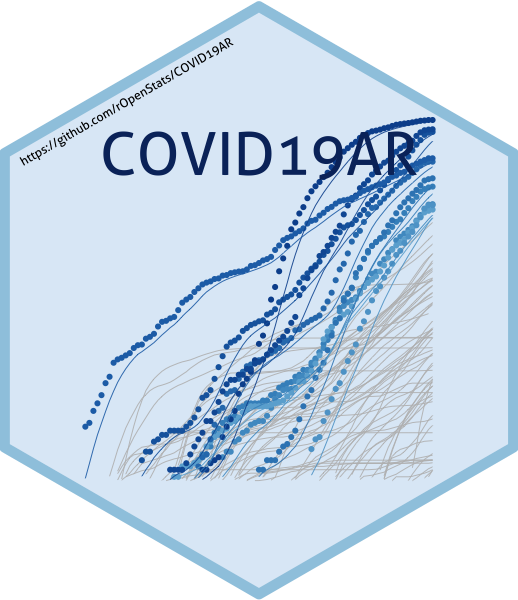
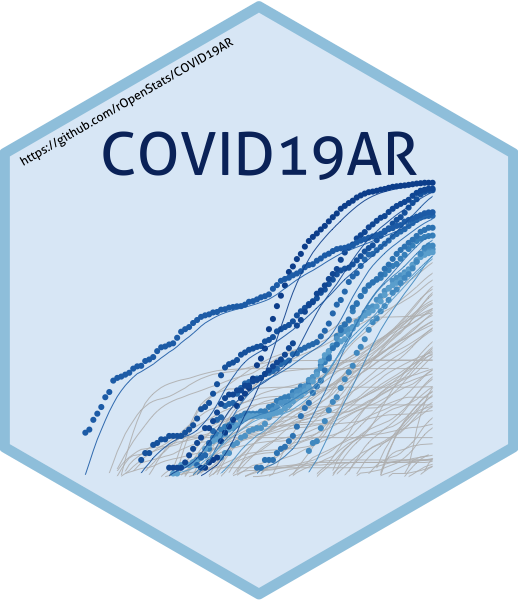
Updated up to 2020-06-16

Changed region(s): [[0.1544, 0.18, 0.8649, 0.81]]

diff --git a/README.md b/README.md
@@ -86,22 +86,22 @@ lgr::threshold("info", lgr::get_logger("COVID19ARCurator"))
 covid19.curator <- COVID19ARCurator$new(download.new.data = FALSE)
 
 dummy <- covid19.curator$loadData()
-#> INFO  [22:10:44.412] Exists dest path? {dest.path: ~/.R/COVID19AR/Covid19Casos.csv, exists.dest.path: TRUE}
+#> INFO  [00:14:07.855] Exists dest path? {dest.path: ~/.R/COVID19AR/Covid19Casos.csv, exists.dest.path: TRUE}
 dummy <- covid19.curator$curateData()
-#> INFO  [22:10:46.052] Normalize 
-#> INFO  [22:10:46.434] checkSoundness 
-#> INFO  [22:10:46.554] Mutating data
+#> INFO  [00:14:09.694] Normalize 
+#> INFO  [00:14:10.098] checkSoundness 
+#> INFO  [00:14:10.229] Mutating data
 # Dates of current processed file
 max(covid19.curator$data$fecha_apertura, na.rm = TRUE)
-#> [1] "2020-06-15"
+#> [1] "2020-06-16"
 # Inicio de síntomas
 
 max(covid19.curator$data$fecha_inicio_sintomas,  na.rm = TRUE)
-#> [1] "2020-06-15"
+#> [1] "2020-06-16"
 
 # Ultima muerte
 max(covid19.curator$data$fecha_fallecimiento,  na.rm = TRUE)
-#> [1] "2020-06-15"
+#> [1] "2020-06-16"
 
 report.date <- max(covid19.curator$data$fecha_inicio_sintomas,  na.rm = TRUE)
 
@@ -110,8 +110,8 @@ covid19.ar.provincia.summary.100.confirmed <- covid19.ar.provincia.summary %>% f
 # Provinces with > 100 confirmed cases
 covid19.ar.provincia.summary.100.confirmed$residencia_provincia_nombre
 #>  [1] "Buenos Aires"     "CABA"             "Chaco"            "Córdoba"         
-#>  [5] "Corrientes"       "Mendoza"          "Neuquén"          "Río Negro"       
-#>  [9] "Santa Fe"         "SIN ESPECIFICAR"  "Tierra del Fuego"
+#>  [5] "Corrientes"       "Entre Ríos"       "Mendoza"          "Neuquén"         
+#>  [9] "Río Negro"        "Santa Fe"         "SIN ESPECIFICAR"  "Tierra del Fuego"
 ```
 
 ``` r
@@ -125,29 +125,29 @@ kable((covid19.ar.summary %>% filter(confirmados > 0) %>% arrange(desc(confirmad
 
 | residencia\_provincia\_nombre | confirmados | tests | fallecidos | dias.fallecimiento | letalidad.min.porc | letalidad.max.porc | positividad.porc | internados.porc | cuidado.intensivo.porc | respirador.porc |
 | :---------------------------- | ----------: | ----: | ---------: | -----------------: | -----------------: | -----------------: | ---------------: | --------------: | ---------------------: | --------------: |
-| CABA                          |       15104 | 49700 |        299 |               13.7 |              0.015 |              0.020 |            0.304 |           0.292 |                  0.025 |           0.012 |
-| Buenos Aires                  |       13710 | 84503 |        385 |               12.3 |              0.018 |              0.028 |            0.162 |           0.258 |                  0.029 |           0.012 |
-| Chaco                         |        1364 |  8487 |         72 |               14.0 |              0.035 |              0.053 |            0.161 |           0.148 |                  0.061 |           0.034 |
-| Río Negro                     |         564 |  2929 |         29 |               14.5 |              0.043 |              0.051 |            0.193 |           0.576 |                  0.035 |           0.018 |
-| Córdoba                       |         497 | 16241 |         35 |               23.1 |              0.034 |              0.070 |            0.031 |           0.237 |                  0.060 |           0.024 |
-| Santa Fe                      |         285 | 11005 |          3 |               25.0 |              0.007 |              0.011 |            0.026 |           0.193 |                  0.042 |           0.018 |
-| SIN ESPECIFICAR               |         216 |   736 |          2 |                9.5 |              0.007 |              0.009 |            0.293 |           0.250 |                  0.023 |           0.014 |
-| Neuquén                       |         212 |  1806 |          5 |                9.4 |              0.018 |              0.024 |            0.117 |           0.566 |                  0.014 |           0.014 |
-| Tierra del Fuego              |         136 |  1558 |          0 |                NaN |              0.000 |              0.000 |            0.087 |           0.051 |                  0.015 |           0.015 |
-| Mendoza                       |         112 |  2237 |          9 |               13.3 |              0.040 |              0.080 |            0.050 |           0.938 |                  0.098 |           0.045 |
-| Corrientes                    |         104 |  2975 |          0 |                NaN |              0.000 |              0.000 |            0.035 |           0.019 |                  0.010 |           0.000 |
-| Entre Ríos                    |          88 |  1653 |          0 |                NaN |              0.000 |              0.000 |            0.053 |           0.318 |                  0.000 |           0.000 |
-| La Rioja                      |          64 |  1459 |          8 |               12.0 |              0.085 |              0.125 |            0.044 |           0.172 |                  0.062 |           0.016 |
-| Chubut                        |          61 |   691 |          1 |               19.0 |              0.010 |              0.016 |            0.088 |           0.049 |                  0.016 |           0.016 |
-| Tucumán                       |          56 |  5884 |          4 |               14.2 |              0.014 |              0.071 |            0.010 |           0.161 |                  0.071 |           0.036 |
-| Santa Cruz                    |          50 |   544 |          0 |                NaN |              0.000 |              0.000 |            0.092 |           0.420 |                  0.080 |           0.040 |
-| Misiones                      |          39 |  1249 |          2 |                6.5 |              0.034 |              0.051 |            0.031 |           0.718 |                  0.128 |           0.077 |
-| Formosa                       |          34 |   731 |          0 |                NaN |              0.000 |              0.000 |            0.047 |           0.000 |                  0.000 |           0.000 |
-| Salta                         |          23 |   774 |          0 |                NaN |              0.000 |              0.000 |            0.030 |           0.652 |                  0.000 |           0.000 |
-| Santiago del Estero           |          22 |  2120 |          0 |                NaN |              0.000 |              0.000 |            0.010 |           0.045 |                  0.045 |           0.000 |
-| San Luis                      |          11 |   414 |          0 |                NaN |              0.000 |              0.000 |            0.027 |           0.727 |                  0.091 |           0.000 |
-| Jujuy                         |           7 |  2232 |          1 |               22.0 |              0.007 |              0.143 |            0.003 |           0.286 |                  0.143 |           0.143 |
-| San Juan                      |           7 |   702 |          0 |                NaN |              0.000 |              0.000 |            0.010 |           0.714 |                  0.143 |           0.000 |
+| CABA                          |       15582 | 50928 |        310 |               13.6 |              0.015 |              0.020 |            0.306 |           0.290 |                  0.025 |           0.012 |
+| Buenos Aires                  |       14509 | 86964 |        390 |               12.2 |              0.017 |              0.027 |            0.167 |           0.252 |                  0.028 |           0.012 |
+| Chaco                         |        1387 |  8633 |         77 |               14.1 |              0.035 |              0.056 |            0.161 |           0.149 |                  0.061 |           0.035 |
+| Río Negro                     |         581 |  3030 |         29 |               14.5 |              0.045 |              0.050 |            0.192 |           0.561 |                  0.034 |           0.017 |
+| Córdoba                       |         498 | 16398 |         35 |               23.1 |              0.031 |              0.070 |            0.030 |           0.237 |                  0.060 |           0.024 |
+| Santa Fe                      |         288 | 11057 |          4 |               25.5 |              0.008 |              0.014 |            0.026 |           0.191 |                  0.045 |           0.021 |
+| Neuquén                       |         240 |  1847 |          6 |                9.4 |              0.020 |              0.025 |            0.130 |           0.504 |                  0.017 |           0.017 |
+| SIN ESPECIFICAR               |         228 |   766 |          2 |                9.5 |              0.007 |              0.009 |            0.298 |           0.250 |                  0.022 |           0.013 |
+| Tierra del Fuego              |         136 |  1559 |          0 |                NaN |              0.000 |              0.000 |            0.087 |           0.051 |                  0.015 |           0.015 |
+| Mendoza                       |         115 |  2283 |          9 |               13.3 |              0.039 |              0.078 |            0.050 |           0.948 |                  0.096 |           0.043 |
+| Corrientes                    |         105 |  3024 |          0 |                NaN |              0.000 |              0.000 |            0.035 |           0.019 |                  0.010 |           0.000 |
+| Entre Ríos                    |         100 |  1702 |          0 |                NaN |              0.000 |              0.000 |            0.059 |           0.280 |                  0.000 |           0.000 |
+| La Rioja                      |          64 |  1461 |          8 |               12.0 |              0.077 |              0.125 |            0.044 |           0.172 |                  0.062 |           0.016 |
+| Chubut                        |          62 |   699 |          1 |               19.0 |              0.009 |              0.016 |            0.089 |           0.048 |                  0.016 |           0.016 |
+| Tucumán                       |          55 |  5949 |          4 |               14.2 |              0.012 |              0.073 |            0.009 |           0.164 |                  0.073 |           0.036 |
+| Santa Cruz                    |          50 |   552 |          0 |                NaN |              0.000 |              0.000 |            0.091 |           0.420 |                  0.080 |           0.040 |
+| Misiones                      |          38 |  1250 |          2 |                6.5 |              0.033 |              0.053 |            0.030 |           0.737 |                  0.132 |           0.079 |
+| Formosa                       |          34 |   732 |          0 |                NaN |              0.000 |              0.000 |            0.046 |           0.000 |                  0.000 |           0.000 |
+| Santiago del Estero           |          22 |  2200 |          0 |                NaN |              0.000 |              0.000 |            0.010 |           0.045 |                  0.045 |           0.000 |
+| Salta                         |          21 |   787 |          0 |                NaN |              0.000 |              0.000 |            0.027 |           0.667 |                  0.000 |           0.000 |
+| San Luis                      |          11 |   431 |          0 |                NaN |              0.000 |              0.000 |            0.026 |           0.727 |                  0.091 |           0.000 |
+| Jujuy                         |           7 |  2282 |          1 |               22.0 |              0.007 |              0.143 |            0.003 |           0.286 |                  0.143 |           0.143 |
+| San Juan                      |           7 |   714 |          0 |                NaN |              0.000 |              0.000 |            0.010 |           0.714 |                  0.143 |           0.000 |
 | La Pampa                      |           6 |   294 |          0 |                NaN |              0.000 |              0.000 |            0.020 |           0.167 |                  0.000 |           0.000 |
 
 ``` r
@@ -168,7 +168,7 @@ getDepartamentosExponentialGrowthPlot(covid19.curator)
 
 ``` r
 covid19.ar.summary <- covid19.curator$makeSummary(group.vars = c("sepi_apertura"))
-#> INFO  [22:11:18.603] Processing {current.group: }
+#> INFO  [00:14:38.902] Processing {current.group: }
 nrow(covid19.ar.summary)
 #> [1] 21
 porc.cols <- names(covid19.ar.summary)[grep("porc", names(covid19.ar.summary))]
@@ -180,49 +180,49 @@ kable(covid19.ar.summary %>% filter(confirmados > 0) %>% arrange(sepi_apertura, 
 |             10 |          15 |     85 |          9 |          1 |              0.045 |              0.067 |            0.176 |           0.600 |                  0.133 |           0.133 |
 |             11 |          92 |    666 |         63 |          8 |              0.060 |              0.087 |            0.138 |           0.685 |                  0.130 |           0.065 |
 |             12 |         406 |   2048 |        251 |         16 |              0.031 |              0.039 |            0.198 |           0.618 |                  0.094 |           0.054 |
-|             13 |        1067 |   5509 |        591 |         60 |              0.046 |              0.056 |            0.194 |           0.554 |                  0.096 |           0.057 |
-|             14 |        1728 |  11519 |        950 |        109 |              0.051 |              0.063 |            0.150 |           0.550 |                  0.096 |           0.056 |
-|             15 |        2358 |  20221 |       1277 |        168 |              0.056 |              0.071 |            0.117 |           0.542 |                  0.092 |           0.051 |
-|             16 |        3087 |  31783 |       1601 |        221 |              0.054 |              0.072 |            0.097 |           0.519 |                  0.083 |           0.044 |
-|             17 |        4092 |  45807 |       2082 |        317 |              0.059 |              0.077 |            0.089 |           0.509 |                  0.076 |           0.039 |
-|             18 |        4979 |  58979 |       2454 |        376 |              0.058 |              0.076 |            0.084 |           0.493 |                  0.069 |           0.036 |
-|             19 |        6308 |  73095 |       2986 |        440 |              0.054 |              0.070 |            0.086 |           0.473 |                  0.063 |           0.032 |
-|             20 |        8534 |  90402 |       3756 |        506 |              0.046 |              0.059 |            0.094 |           0.440 |                  0.056 |           0.028 |
-|             21 |       12657 | 113739 |       4960 |        617 |              0.039 |              0.049 |            0.111 |           0.392 |                  0.048 |           0.024 |
-|             22 |       17609 | 138984 |       6246 |        724 |              0.033 |              0.041 |            0.127 |           0.355 |                  0.042 |           0.020 |
-|             23 |       23571 | 166927 |       7506 |        810 |              0.028 |              0.034 |            0.141 |           0.318 |                  0.037 |           0.017 |
-|             24 |       31999 | 198935 |       8976 |        854 |              0.020 |              0.027 |            0.161 |           0.281 |                  0.030 |           0.014 |
-|             25 |       32772 | 201411 |       9063 |        855 |              0.018 |              0.026 |            0.163 |           0.277 |                  0.029 |           0.014 |
+|             13 |        1068 |   5509 |        592 |         60 |              0.046 |              0.056 |            0.194 |           0.554 |                  0.096 |           0.057 |
+|             14 |        1729 |  11519 |        951 |        109 |              0.051 |              0.063 |            0.150 |           0.550 |                  0.096 |           0.056 |
+|             15 |        2359 |  20221 |       1278 |        168 |              0.056 |              0.071 |            0.117 |           0.542 |                  0.092 |           0.051 |
+|             16 |        3088 |  31783 |       1602 |        221 |              0.054 |              0.072 |            0.097 |           0.519 |                  0.083 |           0.044 |
+|             17 |        4097 |  45808 |       2085 |        317 |              0.059 |              0.077 |            0.089 |           0.509 |                  0.076 |           0.039 |
+|             18 |        4985 |  58980 |       2457 |        376 |              0.058 |              0.075 |            0.085 |           0.493 |                  0.069 |           0.036 |
+|             19 |        6314 |  73096 |       2989 |        440 |              0.054 |              0.070 |            0.086 |           0.473 |                  0.063 |           0.032 |
+|             20 |        8541 |  90404 |       3762 |        506 |              0.047 |              0.059 |            0.094 |           0.440 |                  0.056 |           0.028 |
+|             21 |       12668 | 113746 |       4969 |        619 |              0.039 |              0.049 |            0.111 |           0.392 |                  0.048 |           0.024 |
+|             22 |       17626 | 138996 |       6260 |        727 |              0.033 |              0.041 |            0.127 |           0.355 |                  0.042 |           0.021 |
+|             23 |       23596 | 166964 |       7529 |        818 |              0.028 |              0.035 |            0.141 |           0.319 |                  0.037 |           0.018 |
+|             24 |       32282 | 199988 |       9092 |        873 |              0.021 |              0.027 |            0.161 |           0.282 |                  0.030 |           0.014 |
+|             25 |       34146 | 206034 |       9308 |        878 |              0.017 |              0.026 |            0.166 |           0.273 |                  0.029 |           0.013 |
 
 ```` 
 
 ```r
 covid19.ar.summary <- covid19.curator$makeSummary(group.vars = c("residencia_provincia_nombre", "sepi_apertura"))
-#> INFO  [22:11:22.762] Processing {current.group: residencia_provincia_nombre = Buenos Aires}
-#> INFO  [22:11:25.691] Processing {current.group: residencia_provincia_nombre = CABA}
-#> INFO  [22:11:28.139] Processing {current.group: residencia_provincia_nombre = Catamarca}
-#> INFO  [22:11:29.649] Processing {current.group: residencia_provincia_nombre = Chaco}
-#> INFO  [22:11:30.983] Processing {current.group: residencia_provincia_nombre = Chubut}
-#> INFO  [22:11:32.210] Processing {current.group: residencia_provincia_nombre = Córdoba}
-#> INFO  [22:11:33.794] Processing {current.group: residencia_provincia_nombre = Corrientes}
-#> INFO  [22:11:35.101] Processing {current.group: residencia_provincia_nombre = Entre Ríos}
-#> INFO  [22:11:36.637] Processing {current.group: residencia_provincia_nombre = Formosa}
-#> INFO  [22:11:38.168] Processing {current.group: residencia_provincia_nombre = Jujuy}
-#> INFO  [22:11:39.505] Processing {current.group: residencia_provincia_nombre = La Pampa}
-#> INFO  [22:11:40.815] Processing {current.group: residencia_provincia_nombre = La Rioja}
-#> INFO  [22:11:42.411] Processing {current.group: residencia_provincia_nombre = Mendoza}
-#> INFO  [22:11:43.882] Processing {current.group: residencia_provincia_nombre = Misiones}
-#> INFO  [22:11:45.112] Processing {current.group: residencia_provincia_nombre = Neuquén}
-#> INFO  [22:11:46.392] Processing {current.group: residencia_provincia_nombre = Río Negro}
-#> INFO  [22:11:47.757] Processing {current.group: residencia_provincia_nombre = Salta}
-#> INFO  [22:11:49.123] Processing {current.group: residencia_provincia_nombre = San Juan}
-#> INFO  [22:11:50.426] Processing {current.group: residencia_provincia_nombre = San Luis}
-#> INFO  [22:11:51.730] Processing {current.group: residencia_provincia_nombre = Santa Cruz}
-#> INFO  [22:11:53.016] Processing {current.group: residencia_provincia_nombre = Santa Fe}
-#> INFO  [22:11:54.506] Processing {current.group: residencia_provincia_nombre = Santiago del Estero}
-#> INFO  [22:11:55.785] Processing {current.group: residencia_provincia_nombre = SIN ESPECIFICAR}
-#> INFO  [22:11:57.243] Processing {current.group: residencia_provincia_nombre = Tierra del Fuego}
-#> INFO  [22:11:58.661] Processing {current.group: residencia_provincia_nombre = Tucumán}
+#> INFO  [00:14:43.153] Processing {current.group: residencia_provincia_nombre = Buenos Aires}
+#> INFO  [00:14:45.828] Processing {current.group: residencia_provincia_nombre = CABA}
+#> INFO  [00:14:47.877] Processing {current.group: residencia_provincia_nombre = Catamarca}
+#> INFO  [00:14:49.214] Processing {current.group: residencia_provincia_nombre = Chaco}
+#> INFO  [00:14:50.661] Processing {current.group: residencia_provincia_nombre = Chubut}
+#> INFO  [00:14:51.927] Processing {current.group: residencia_provincia_nombre = Córdoba}
+#> INFO  [00:14:53.641] Processing {current.group: residencia_provincia_nombre = Corrientes}
+#> INFO  [00:14:55.064] Processing {current.group: residencia_provincia_nombre = Entre Ríos}
+#> INFO  [00:14:56.421] Processing {current.group: residencia_provincia_nombre = Formosa}
+#> INFO  [00:14:57.825] Processing {current.group: residencia_provincia_nombre = Jujuy}
+#> INFO  [00:14:59.087] Processing {current.group: residencia_provincia_nombre = La Pampa}
+#> INFO  [00:15:00.349] Processing {current.group: residencia_provincia_nombre = La Rioja}
+#> INFO  [00:15:01.685] Processing {current.group: residencia_provincia_nombre = Mendoza}
+#> INFO  [00:15:03.097] Processing {current.group: residencia_provincia_nombre = Misiones}
+#> INFO  [00:15:04.514] Processing {current.group: residencia_provincia_nombre = Neuquén}
+#> INFO  [00:15:05.817] Processing {current.group: residencia_provincia_nombre = Río Negro}
+#> INFO  [00:15:07.228] Processing {current.group: residencia_provincia_nombre = Salta}
+#> INFO  [00:15:08.525] Processing {current.group: residencia_provincia_nombre = San Juan}
+#> INFO  [00:15:09.850] Processing {current.group: residencia_provincia_nombre = San Luis}
+#> INFO  [00:15:11.130] Processing {current.group: residencia_provincia_nombre = Santa Cruz}
+#> INFO  [00:15:12.436] Processing {current.group: residencia_provincia_nombre = Santa Fe}
+#> INFO  [00:15:14.176] Processing {current.group: residencia_provincia_nombre = Santiago del Estero}
+#> INFO  [00:15:15.453] Processing {current.group: residencia_provincia_nombre = SIN ESPECIFICAR}
+#> INFO  [00:15:16.895] Processing {current.group: residencia_provincia_nombre = Tierra del Fuego}
+#> INFO  [00:15:18.328] Processing {current.group: residencia_provincia_nombre = Tucumán}
 nrow(covid19.ar.summary)
 #> [1] 401
 porc.cols <- names(covid19.ar.summary)[grep("porc", names(covid19.ar.summary))]
@@ -298,46 +298,45 @@ kable((covid19.ar.summary %>% filter(confirmados >= 10) %>% arrange(desc(confirm
 
 | residencia\_provincia\_nombre | sexo | confirmados | internados | fallecidos | letalidad.min.porc | letalidad.max.porc | positividad.porc | internados.porc | cuidado.intensivo.porc | respirador.porc |
 | :---------------------------- | :--- | ----------: | ---------: | ---------: | -----------------: | -----------------: | ---------------: | --------------: | ---------------------: | --------------: |
-| CABA                          | F    |        7659 |       2213 |        127 |              0.013 |              0.017 |            0.293 |           0.289 |                  0.017 |           0.007 |
-| CABA                          | M    |        7376 |       2177 |        168 |              0.018 |              0.023 |            0.316 |           0.295 |                  0.033 |           0.017 |
-| Buenos Aires                  | M    |        7038 |       1866 |        225 |              0.021 |              0.032 |            0.173 |           0.265 |                  0.035 |           0.015 |
-| Buenos Aires                  | F    |        6614 |       1660 |        159 |              0.015 |              0.024 |            0.152 |           0.251 |                  0.023 |           0.009 |
-| Chaco                         | M    |         684 |        100 |         44 |              0.043 |              0.064 |            0.164 |           0.146 |                  0.070 |           0.048 |
-| Chaco                         | F    |         678 |        102 |         28 |              0.027 |              0.041 |            0.158 |           0.150 |                  0.052 |           0.021 |
-| Río Negro                     | M    |         283 |        164 |         17 |              0.050 |              0.060 |            0.206 |           0.580 |                  0.042 |           0.021 |
-| Río Negro                     | F    |         281 |        161 |         12 |              0.035 |              0.043 |            0.181 |           0.573 |                  0.028 |           0.014 |
-| Córdoba                       | F    |         250 |         69 |         18 |              0.035 |              0.072 |            0.030 |           0.276 |                  0.056 |           0.016 |
-| Córdoba                       | M    |         245 |         48 |         17 |              0.033 |              0.069 |            0.031 |           0.196 |                  0.065 |           0.033 |
-| Santa Fe                      | M    |         149 |         34 |          3 |              0.014 |              0.020 |            0.028 |           0.228 |                  0.060 |           0.034 |
-| Santa Fe                      | F    |         136 |         21 |          0 |              0.000 |              0.000 |            0.024 |           0.154 |                  0.022 |           0.000 |
-| SIN ESPECIFICAR               | F    |         119 |         25 |          0 |              0.000 |              0.000 |            0.277 |           0.210 |                  0.017 |           0.000 |
-| Neuquén                       | F    |         106 |         57 |          2 |              0.014 |              0.019 |            0.122 |           0.538 |                  0.019 |           0.019 |
-| Neuquén                       | M    |         106 |         63 |          3 |              0.021 |              0.028 |            0.113 |           0.594 |                  0.009 |           0.009 |
-| SIN ESPECIFICAR               | M    |          95 |         28 |          1 |              0.008 |              0.011 |            0.322 |           0.295 |                  0.021 |           0.021 |
+| CABA                          | F    |        7903 |       2269 |        134 |              0.013 |              0.017 |            0.295 |           0.287 |                  0.017 |           0.007 |
+| CABA                          | M    |        7608 |       2233 |        172 |              0.018 |              0.023 |            0.318 |           0.294 |                  0.032 |           0.018 |
+| Buenos Aires                  | M    |        7467 |       1932 |        228 |              0.020 |              0.031 |            0.178 |           0.259 |                  0.033 |           0.014 |
+| Buenos Aires                  | F    |        6980 |       1713 |        161 |              0.014 |              0.023 |            0.156 |           0.245 |                  0.023 |           0.009 |
+| Chaco                         | M    |         698 |        104 |         49 |              0.045 |              0.070 |            0.164 |           0.149 |                  0.072 |           0.049 |
+| Chaco                         | F    |         687 |        102 |         28 |              0.025 |              0.041 |            0.158 |           0.148 |                  0.051 |           0.020 |
+| Río Negro                     | M    |         293 |        165 |         17 |              0.052 |              0.058 |            0.205 |           0.563 |                  0.041 |           0.020 |
+| Río Negro                     | F    |         288 |        161 |         12 |              0.037 |              0.042 |            0.180 |           0.559 |                  0.028 |           0.014 |
+| Córdoba                       | F    |         250 |         69 |         18 |              0.032 |              0.072 |            0.030 |           0.276 |                  0.056 |           0.016 |
+| Córdoba                       | M    |         246 |         48 |         17 |              0.031 |              0.069 |            0.031 |           0.195 |                  0.065 |           0.033 |
+| Santa Fe                      | M    |         151 |         34 |          3 |              0.011 |              0.020 |            0.028 |           0.225 |                  0.060 |           0.033 |
+| Santa Fe                      | F    |         137 |         21 |          1 |              0.004 |              0.007 |            0.024 |           0.153 |                  0.029 |           0.007 |
+| SIN ESPECIFICAR               | F    |         125 |         26 |          0 |              0.000 |              0.000 |            0.280 |           0.208 |                  0.016 |           0.000 |
+| Neuquén                       | F    |         121 |         58 |          3 |              0.020 |              0.025 |            0.136 |           0.479 |                  0.025 |           0.025 |
+| Neuquén                       | M    |         119 |         63 |          3 |              0.019 |              0.025 |            0.124 |           0.529 |                  0.008 |           0.008 |
+| SIN ESPECIFICAR               | M    |         101 |         30 |          1 |              0.008 |              0.010 |            0.327 |           0.297 |                  0.020 |           0.020 |
 | Tierra del Fuego              | M    |          77 |          4 |          0 |              0.000 |              0.000 |            0.093 |           0.052 |                  0.026 |           0.026 |
-| CABA                          | NR   |          69 |         16 |          4 |              0.030 |              0.058 |            0.299 |           0.232 |                  0.043 |           0.029 |
-| Corrientes                    | M    |          66 |          1 |          0 |              0.000 |              0.000 |            0.039 |           0.015 |                  0.000 |           0.000 |
-| Mendoza                       | M    |          62 |         57 |          9 |              0.076 |              0.145 |            0.053 |           0.919 |                  0.145 |           0.065 |
-| Entre Ríos                    | M    |          59 |         22 |          0 |              0.000 |              0.000 |            0.069 |           0.373 |                  0.000 |           0.000 |
-| Buenos Aires                  | NR   |          58 |         11 |          1 |              0.009 |              0.017 |            0.243 |           0.190 |                  0.034 |           0.000 |
+| CABA                          | NR   |          71 |         18 |          4 |              0.030 |              0.056 |            0.298 |           0.254 |                  0.042 |           0.028 |
+| Corrientes                    | M    |          67 |          1 |          0 |              0.000 |              0.000 |            0.039 |           0.015 |                  0.000 |           0.000 |
+| Mendoza                       | M    |          63 |         59 |          9 |              0.071 |              0.143 |            0.053 |           0.937 |                  0.143 |           0.063 |
+| Buenos Aires                  | NR   |          62 |         11 |          1 |              0.009 |              0.016 |            0.250 |           0.177 |                  0.032 |           0.000 |
+| Entre Ríos                    | M    |          60 |         22 |          0 |              0.000 |              0.000 |            0.069 |           0.367 |                  0.000 |           0.000 |
 | Tierra del Fuego              | F    |          58 |          3 |          0 |              0.000 |              0.000 |            0.080 |           0.052 |                  0.000 |           0.000 |
-| Mendoza                       | F    |          50 |         48 |          0 |              0.000 |              0.000 |            0.047 |           0.960 |                  0.040 |           0.020 |
-| Chubut                        | M    |          38 |          2 |          1 |              0.016 |              0.026 |            0.100 |           0.053 |                  0.026 |           0.026 |
+| Mendoza                       | F    |          52 |         50 |          0 |              0.000 |              0.000 |            0.048 |           0.962 |                  0.038 |           0.019 |
+| Chubut                        | M    |          39 |          2 |          1 |              0.016 |              0.026 |            0.101 |           0.051 |                  0.026 |           0.026 |
+| Entre Ríos                    | F    |          39 |          6 |          0 |              0.000 |              0.000 |            0.047 |           0.154 |                  0.000 |           0.000 |
 | Corrientes                    | F    |          38 |          1 |          0 |              0.000 |              0.000 |            0.029 |           0.026 |                  0.026 |           0.000 |
-| La Rioja                      | F    |          36 |          8 |          6 |              0.118 |              0.167 |            0.050 |           0.222 |                  0.083 |           0.028 |
+| La Rioja                      | F    |          36 |          8 |          6 |              0.107 |              0.167 |            0.050 |           0.222 |                  0.083 |           0.028 |
 | Formosa                       | M    |          34 |          0 |          0 |              0.000 |              0.000 |            0.078 |           0.000 |                  0.000 |           0.000 |
-| Tucumán                       | M    |          34 |          5 |          2 |              0.010 |              0.059 |            0.009 |           0.147 |                  0.029 |           0.000 |
-| Santa Cruz                    | M    |          31 |         12 |          0 |              0.000 |              0.000 |            0.099 |           0.387 |                  0.097 |           0.032 |
-| Entre Ríos                    | F    |          29 |          6 |          0 |              0.000 |              0.000 |            0.036 |           0.207 |                  0.000 |           0.000 |
-| La Rioja                      | M    |          28 |          3 |          2 |              0.047 |              0.071 |            0.038 |           0.107 |                  0.036 |           0.000 |
+| Tucumán                       | M    |          33 |          5 |          2 |              0.010 |              0.061 |            0.009 |           0.152 |                  0.030 |           0.000 |
+| Santa Cruz                    | M    |          31 |         12 |          0 |              0.000 |              0.000 |            0.098 |           0.387 |                  0.097 |           0.032 |
+| La Rioja                      | M    |          28 |          3 |          2 |              0.042 |              0.071 |            0.038 |           0.107 |                  0.036 |           0.000 |
 | Chubut                        | F    |          23 |          1 |          0 |              0.000 |              0.000 |            0.074 |           0.043 |                  0.000 |           0.000 |
-| Tucumán                       | F    |          22 |          4 |          2 |              0.021 |              0.091 |            0.010 |           0.182 |                  0.136 |           0.091 |
-| Misiones                      | M    |          21 |         15 |          1 |              0.030 |              0.048 |            0.031 |           0.714 |                  0.143 |           0.095 |
-| Santa Cruz                    | F    |          19 |          9 |          0 |              0.000 |              0.000 |            0.082 |           0.474 |                  0.053 |           0.053 |
+| Tucumán                       | F    |          22 |          4 |          2 |              0.017 |              0.091 |            0.010 |           0.182 |                  0.136 |           0.091 |
+| Misiones                      | M    |          20 |         15 |          1 |              0.029 |              0.050 |            0.029 |           0.750 |                  0.150 |           0.100 |
+| Santa Cruz                    | F    |          19 |          9 |          0 |              0.000 |              0.000 |            0.081 |           0.474 |                  0.053 |           0.053 |
 | Misiones                      | F    |          18 |         13 |          1 |              0.038 |              0.056 |            0.032 |           0.722 |                  0.111 |           0.056 |
 | Santiago del Estero           | M    |          15 |          1 |          0 |              0.000 |              0.000 |            0.010 |           0.067 |                  0.067 |           0.000 |
-| Salta                         | M    |          13 |         10 |          0 |              0.000 |              0.000 |            0.024 |           0.769 |                  0.000 |           0.000 |
-| Salta                         | F    |          10 |          5 |          0 |              0.000 |              0.000 |            0.042 |           0.500 |                  0.000 |           0.000 |
+| Salta                         | M    |          12 |          9 |          0 |              0.000 |              0.000 |            0.022 |           0.750 |                  0.000 |           0.000 |
 
 ``` r
 
@@ -364,7 +363,7 @@ covid19.ar.summary <- covid19.curator$makeSummary(group.vars = c("residencia_pro
                       data.provider.abv = "@msalnacion", base.size = 6)
  # Proporción de muertos por rango etario
  covidplot
-#> Warning: Removed 35 rows containing missing values (position_stack).
+#> Warning: Removed 53 rows containing missing values (position_stack).
 ```
 
 <img src="man/figures/README-residencia_provincia_nombre-edad.rango-1.png" width="100%" />
@@ -381,7 +380,7 @@ covid19.ar.summary <- covid19.curator$makeSummary(group.vars = c("residencia_pro
                       total.colors = length(unique(data2plot$edad.rango)),
                       data.provider.abv = "@msalnacion", base.size = 6)
  covidplot
-#> Warning: Removed 13 rows containing missing values (position_stack).
+#> Warning: Removed 14 rows containing missing values (position_stack).
 ```
 
 <img src="man/figures/README-residencia_provincia_nombre-edad.rango-2.png" width="100%" />
@@ -398,7 +397,7 @@ covid19.ar.summary <- covid19.curator$makeSummary(group.vars = c("residencia_pro
                       total.colors = length(unique(data2plot$edad.rango)),
                       data.provider.abv = "@msalnacion", base.size = 6)
  covidplot
-#> Warning: Removed 13 rows containing missing values (position_stack).
+#> Warning: Removed 14 rows containing missing values (position_stack).
 ```
 
 <img src="man/figures/README-residencia_provincia_nombre-edad.rango-3.png" width="100%" />
@@ -416,7 +415,7 @@ covid19.ar.summary <- covid19.curator$makeSummary(group.vars = c("residencia_pro
                       total.colors = length(unique(data2plot$edad.rango)),
                       data.provider.abv = "@msalnacion", base.size = 6)
  covidplot
-#> Warning: Removed 5 rows containing missing values (position_stack).
+#> Warning: Removed 3 rows containing missing values (position_stack).
 ```
 
 <img src="man/figures/README-residencia_provincia_nombre-edad.rango-4.png" width="100%" />
